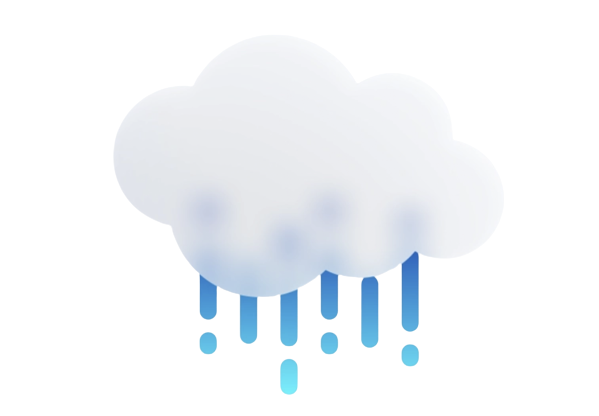
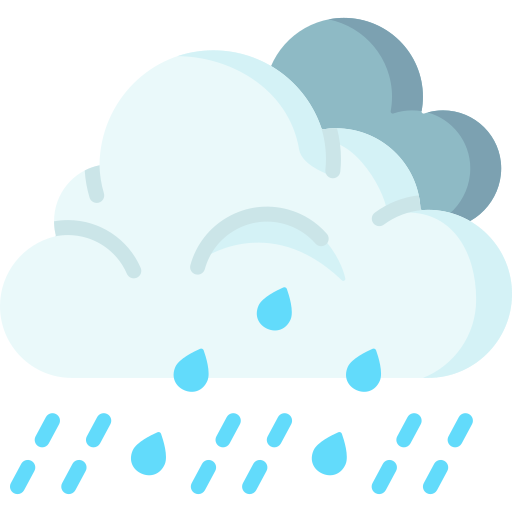
new ui

diff --git a/lib/presentation/components/custom/forcast_image_container.dart b/lib/presentation/components/custom/forcast_image_container.dart
@@ -1,0 +1,86 @@
+import 'dart:math';
+
+import 'package:flutter/material.dart';
+
+class EightSidedContainer extends StatelessWidget {
+  final double size;
+  final Color color;
+  final Widget child;
+  final EdgeInsetsGeometry padding;
+
+  const EightSidedContainer({
+    Key? key,
+    required this.size,
+    this.color = Colors.amber,
+    required this.child,
+    this.padding = const EdgeInsets.all(60),
+  }) : super(key: key);
+
+  @override
+  Widget build(BuildContext context) {
+    return CustomPaint(
+      size: Size(size, size),
+      painter: EightSidedPainter(color: color),
+      child: Container(
+        width: size,
+        height: size,
+        padding: padding,
+        child: child, // Position the child inside the container
+      ),
+    );
+  }
+}
+
+class EightSidedPainter extends CustomPainter {
+  final Color color;
+
+  EightSidedPainter({required this.color});
+
+  @override
+  void paint(Canvas canvas, Size size) {
+    final Paint paint = Paint()
+      ..color = color
+      ..style = PaintingStyle.fill;
+
+    final double w = size.width;
+    final double h = size.height;
+    final double cornerRadius = 30; // Controls the roundness of corners
+
+    final Path path = Path();
+    final Offset center = Offset(w / 2, h / 2);
+    final double radius =
+        w / 2 - cornerRadius; // Radius of the eight-sided shape
+
+    // Generate 8 rounded corners by calculating angles
+    for (int i = 0; i < 8; i++) {
+      final double angle1 = (pi / 4) * i; // Start angle
+      final double angle2 = (pi / 4) * (i + 1); // End angle
+
+      final Offset point1 = Offset(
+        center.dx + radius * cos(angle1),
+        center.dy + radius * sin(angle1),
+      );
+      final Offset point2 = Offset(
+        center.dx + radius * cos(angle2),
+        center.dy + radius * sin(angle2),
+      );
+
+      if (i == 0) {
+        path.moveTo(point1.dx, point1.dy); // Move to the first point
+      }
+
+      // Draw rounded corners using arcToPoint
+      path.arcToPoint(
+        point2,
+        radius: Radius.circular(cornerRadius),
+        clockwise: true,
+      );
+    }
+
+    path.close();
+    canvas.drawPath(path, paint);
+  }
+
+  @override
+  bool shouldRepaint(covariant CustomPainter oldDelegate) => false;
+}

diff --git a/lib/presentation/features/home/views/home.dart b/lib/presentation/features/home/views/home.dart
@@ -23,19 +23,28 @@ class HomeScreenState extends ConsumerState<HomeScreen> {
 
     return Scaffold(
       appBar: const HomeAppbarWidget(),
-      body: Container(
-        height: fullHeight,
-        width: fullWidth,
-        padding: const EdgeInsets.symmetric(horizontal: 25, vertical: 10),
-        child: const Column(
-          mainAxisAlignment: MainAxisAlignment.center,
-          children: <Widget>[
-            WeatherDescription(),
-            Expanded(
-              child: Placeholder(),
-            ),
-          ],
+      body: SafeArea(
+        child: Container(
+          height: fullHeight,
+          width: fullWidth,
+          padding: const EdgeInsets.symmetric(horizontal: 25, vertical: 10),
+          child: Column(
+            mainAxisAlignment: MainAxisAlignment.spaceBetween,
+            children: <Widget>[
+              const WeatherDescription(),
+              const ForcastIconIndicator(),
+              SizedBox(
+                height: fullHeight / 5,
+                child: const Placeholder(),
+              ),
+              const Gap(70)
+            ],
+          ),
         ),
+      ),
+      bottomSheet:  Container(
+        height: 70,
+        child: Placeholder(),
       ),
     );
   }

diff --git a/lib/presentation/features/home/widget/forcast_icon_indicator.dart b/lib/presentation/features/home/widget/forcast_icon_indicator.dart
@@ -1,0 +1,21 @@
+import 'package:flutter/material.dart';
+import 'package:wi_weather_app/presentation/components/custom/forcast_image_container.dart';
+import 'package:wi_weather_app/src/res.dart';
+import 'package:wi_weather_app/src/utils.dart';
+
+class ForcastIconIndicator extends StatelessWidget {
+  const ForcastIconIndicator({super.key});
+
+  @override
+  Widget build(BuildContext context) {
+    return EightSidedContainer(
+      size: fullHeight / 3,
+      color: AppColors.myBlue,
+      child: Image.asset(
+        AppAssets.cloudyImage,
+        height: fullHeight / 4.5,
+        fit: BoxFit.contain,
+      ),
+    );
+  }
+}

diff --git a/lib/res/assets/asset_paths.dart b/lib/res/assets/asset_paths.dart
@@ -6,6 +6,7 @@ class AppAssets {
   static String sunnyImage = 'sunny'.png;
   static String thunderImage = 'thunder_storm'.png;
   static String winterImage = 'winter'.png;
+  static String cloudyImage = 'cloudy'.png;
 
   // icon assets
   static String airIcon = 'air'.svg;

diff --git a/lib/res/constants/app_colors.dart b/lib/res/constants/app_colors.dart
@@ -8,4 +8,5 @@ class AppColors {
   static const grey = Color(0xff9BA1AB);
   static const offWhite = Color.fromARGB(255, 240, 237, 237);
   static const lightOrange = Color.fromARGB(255, 229, 112, 10);
+  static const myBlue = Color(0xffaeb8ff);
 }

diff --git a/lib/src/components.dart b/lib/src/components.dart
@@ -15,3 +15,4 @@ export '../presentation/components/shared/button.dart';
 
 // home
 export '../presentation/features/home/widget/weather_description.dart';
+export '../presentation/features/home/widget/forcast_icon_indicator.dart';
